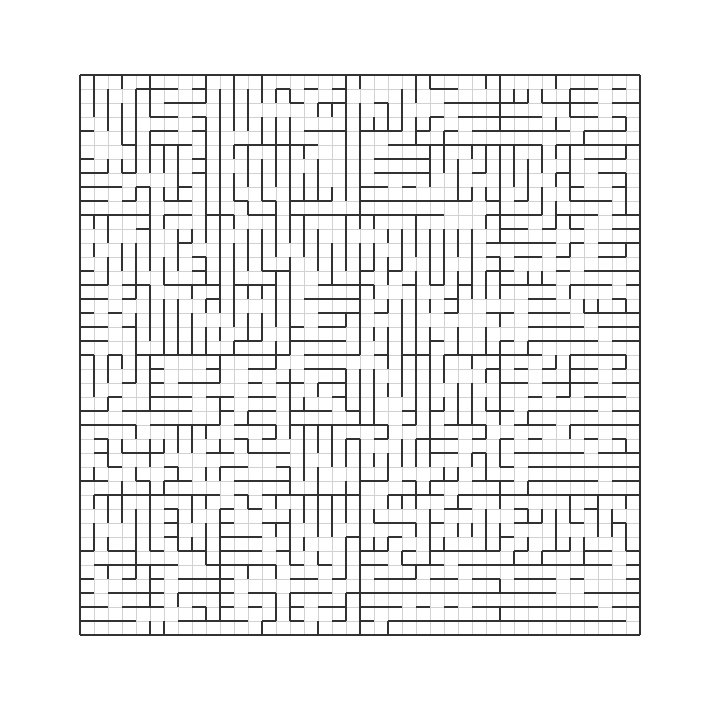
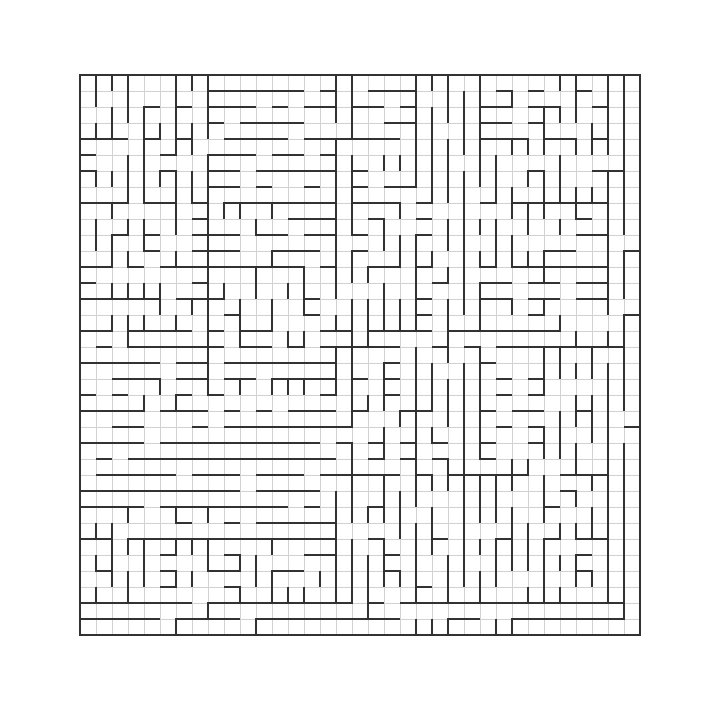
Add solution reveal with Dijkstra's algorithm

Changed region(s): [[0.0917, 0.093, 0.8861, 0.8986]]

diff --git a/solveDijkstra.py b/solveDijkstra.py
@@ -1,0 +1,58 @@
+
+from solve import Solver
+from priority_queue import PriorityQueue
+from maze import Maze
+
+
+class SolverDijkstra(Solver):
+
+    def __init__(self, maze):
+        super().__init__(maze)
+
+    def solve(self):
+        pq = PriorityQueue(lambda x, y: x[2] >= y[2])
+        pq.push((0, 0, 0))
+        visited = {}
+        parents = {}
+        distances = dict([((y, x), 100 * self.maze_dim) for y in range(self.maze_dim) for x in range(self.maze_dim)])
+        while True:
+            while len(pq) > 0 and pq.peek()[:2] in visited:
+                pq.pop()
+            if len(pq) > 0:
+                y, x, dist = pq.pop()
+                visited[(y, x)] = True
+                if x + 1 < self.maze_dim and (y, x + 1) not in visited and not self.maze_matrix[y][x + 1][1] and distances[(y, x + 1)] > dist + 1:
+                    distances[(y, x + 1)] = dist + 1
+                    parents[(y, x + 1)] = (y, x)
+                    pq.push((y, x + 1, dist + 1))
+                if y + 1 < self.maze_dim and (y + 1, x) not in visited and not self.maze_matrix[y + 1][x][0] and distances[(y + 1, x)] > dist + 1:
+                    distances[(y + 1, x)] = dist + 1
+                    parents[(y + 1, x)] = (y, x)
+                    pq.push((y + 1, x, dist + 1))
+                if x > 0 and (y, x - 1) not in visited and not self.maze_matrix[y][x][1] and distances[(y, x - 1)] > dist + 1:
+                    distances[(y, x - 1)] = dist + 1
+                    parents[(y, x - 1)] = (y, x)
+                    pq.push((y, x - 1, dist + 1))
+                if y > 0 and (y - 1, x) not in visited and not self.maze_matrix[y][x][0] and distances[(y - 1, x)] > dist + 1:
+                    distances[(y - 1, x)] = dist + 1
+                    parents[(y - 1, x)] = (y, x)
+                    pq.push((y - 1, x, dist + 1))
+            else:
+                break
+
+        y_start, x_start = self.maze_dim - 1, self.maze_dim - 1
+        while True:
+            self.solution.append((y_start, x_start))
+            if not (y_start == 0 and x_start == 0):
+                y_start, x_start = parents[(y_start, x_start)]
+            else:
+                break
+
+
+if __name__ == '__main__':
+    maze = Maze(3)
+    maze.build()
+    solver = SolverDijkstra(maze)
+    solver.solve()
+    print(maze)
+    print(solver.get_solution())

diff --git a/play.py b/play.py
@@ -9,6 +9,7 @@ from window import Window
 from utils import draw_maze
 from utils import get_solver_thread
 from solveDFS import SolverDFS
+from solveDijkstra import SolverDijkstra
 from maze import Maze
 
 
@@ -32,7 +33,7 @@ def play(dim=20):
               cell_size, border_width, precision=False if dim > 35 else True)
 
 
-    solver = SolverDFS(maze)
+    solver = SolverDijkstra(maze)
     solver_thread = get_solver_thread(display_window, solver, maze, maze_offset_x, maze_offset_y, cell_size, border_width, fps=15)
 
     arguments = {'solver_thread': solver_thread}

diff --git a/solveDFS.py b/solveDFS.py
@@ -53,4 +53,5 @@ if __name__ == '__main__':
     maze.build()
     solver = SolverDFS(maze)
     solver.solve()
+    print(maze)
     print(solver.get_solution())
